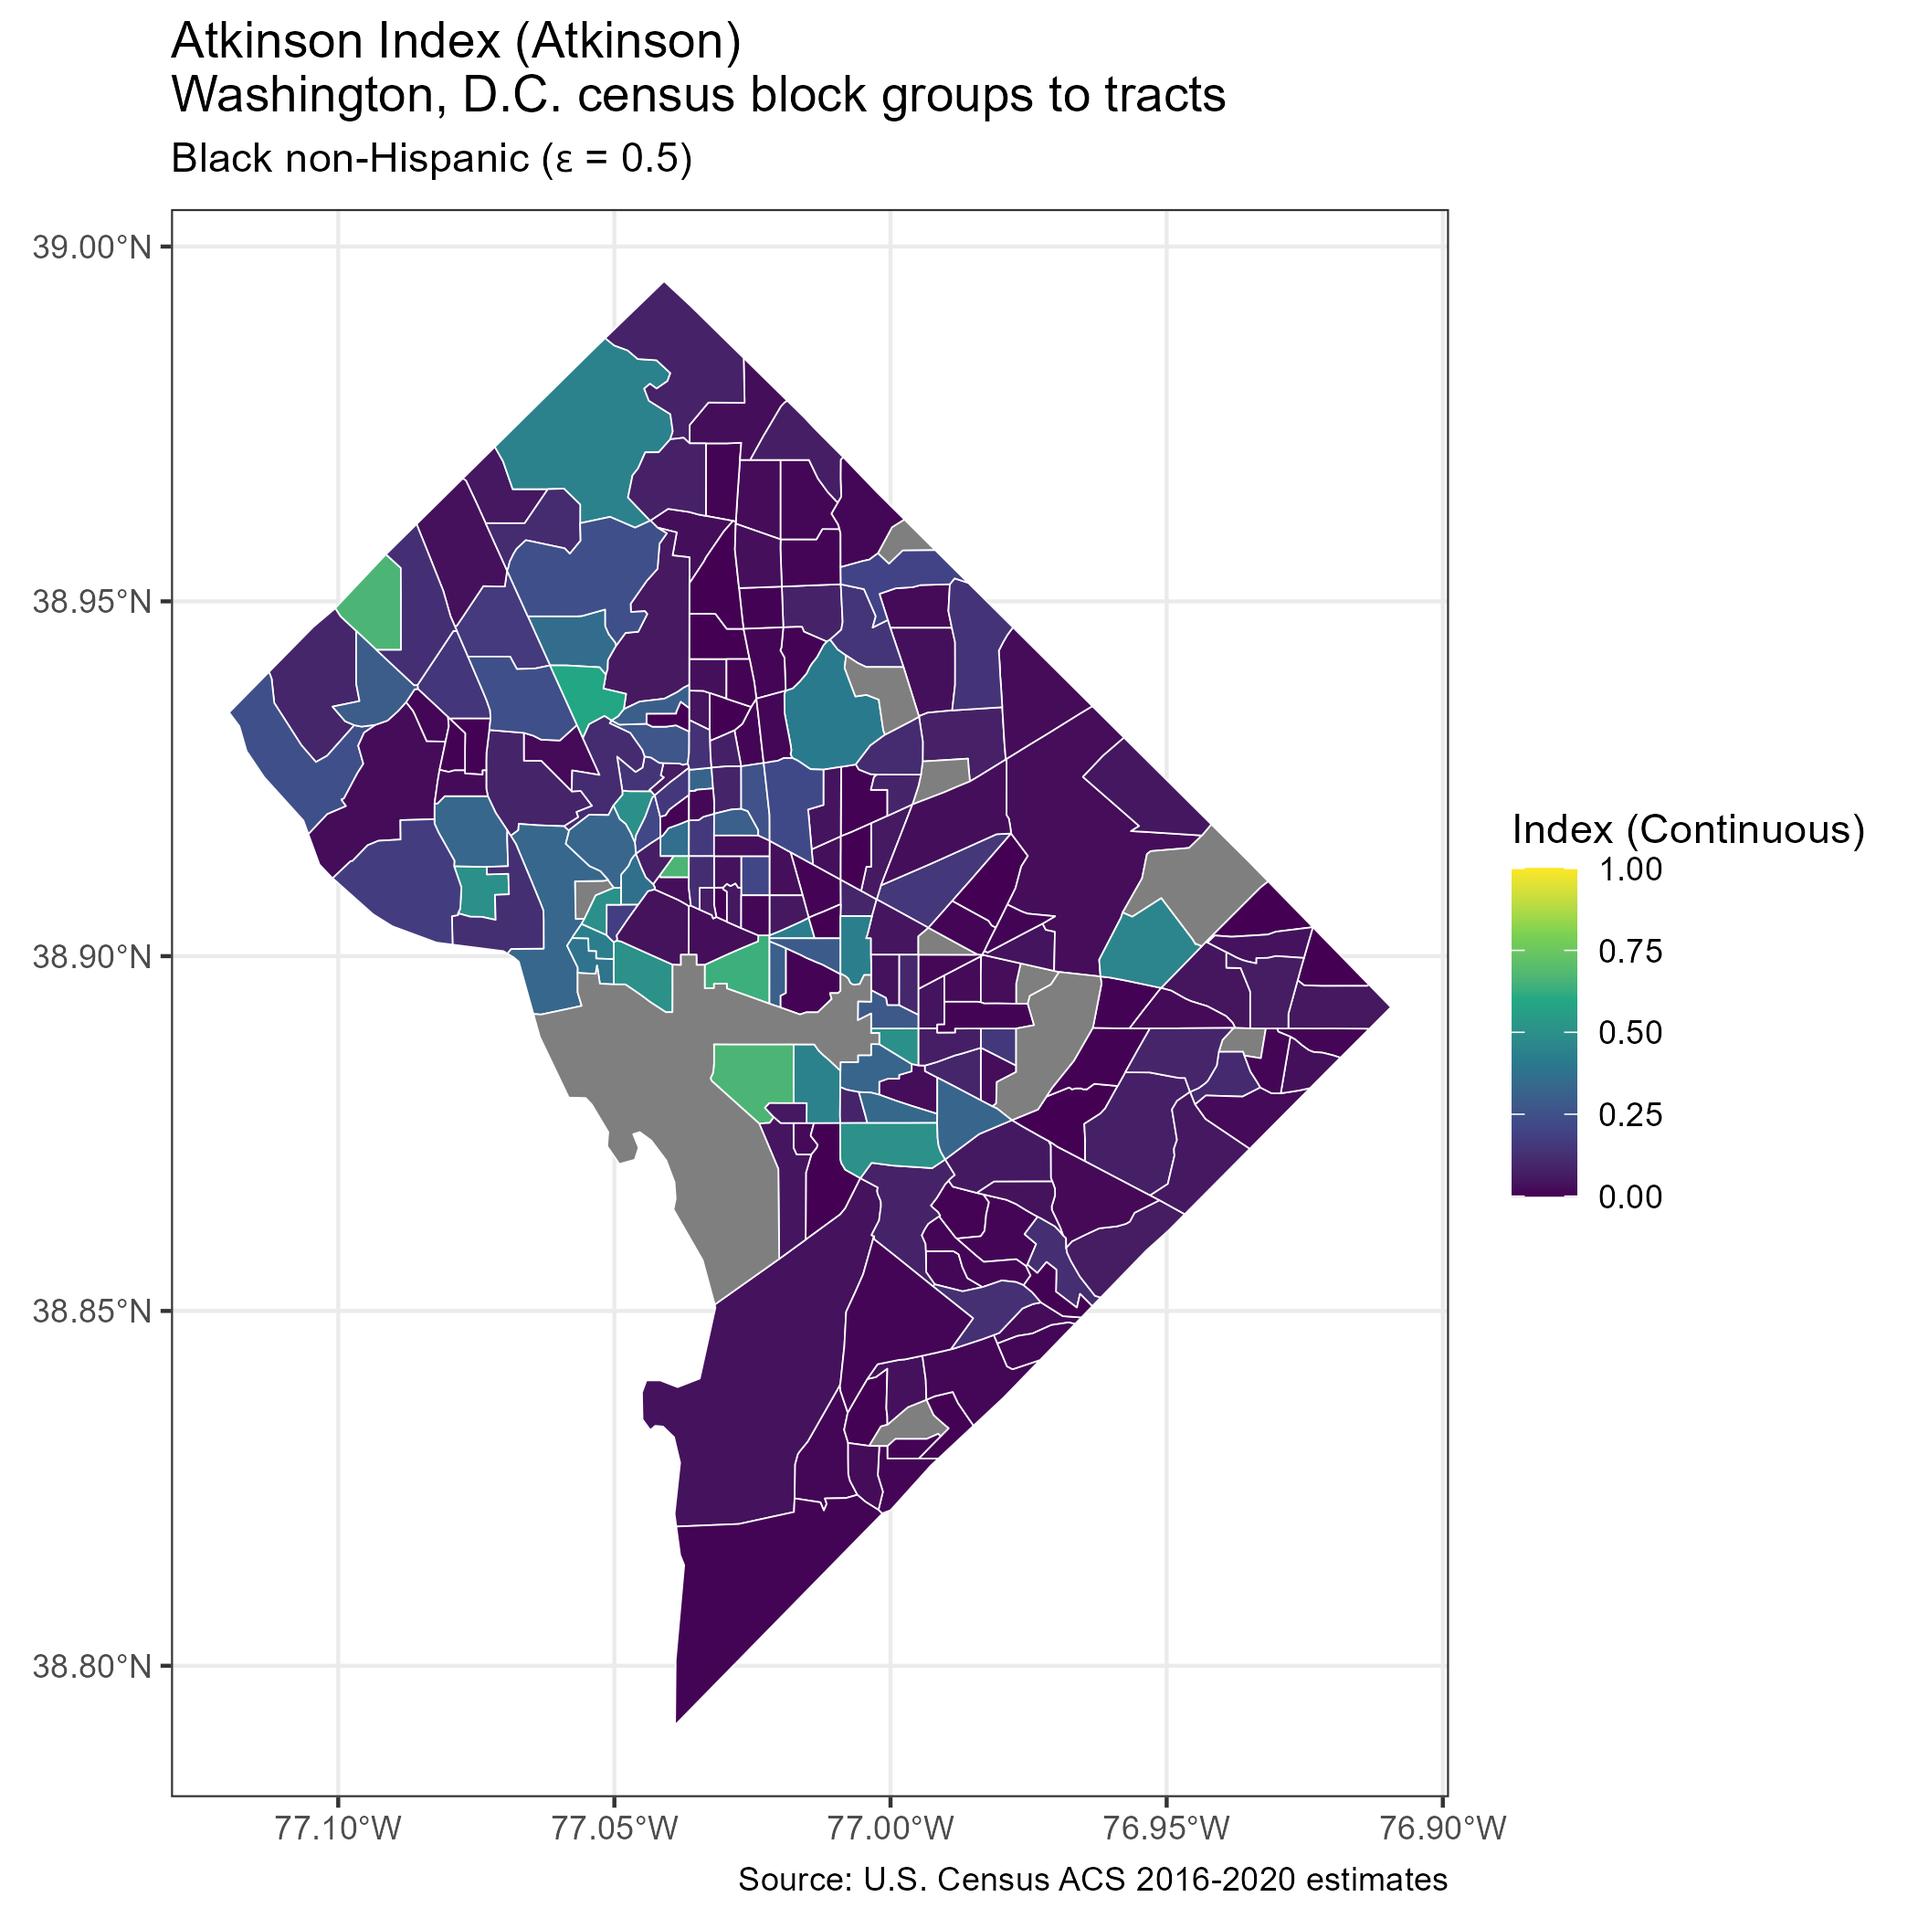
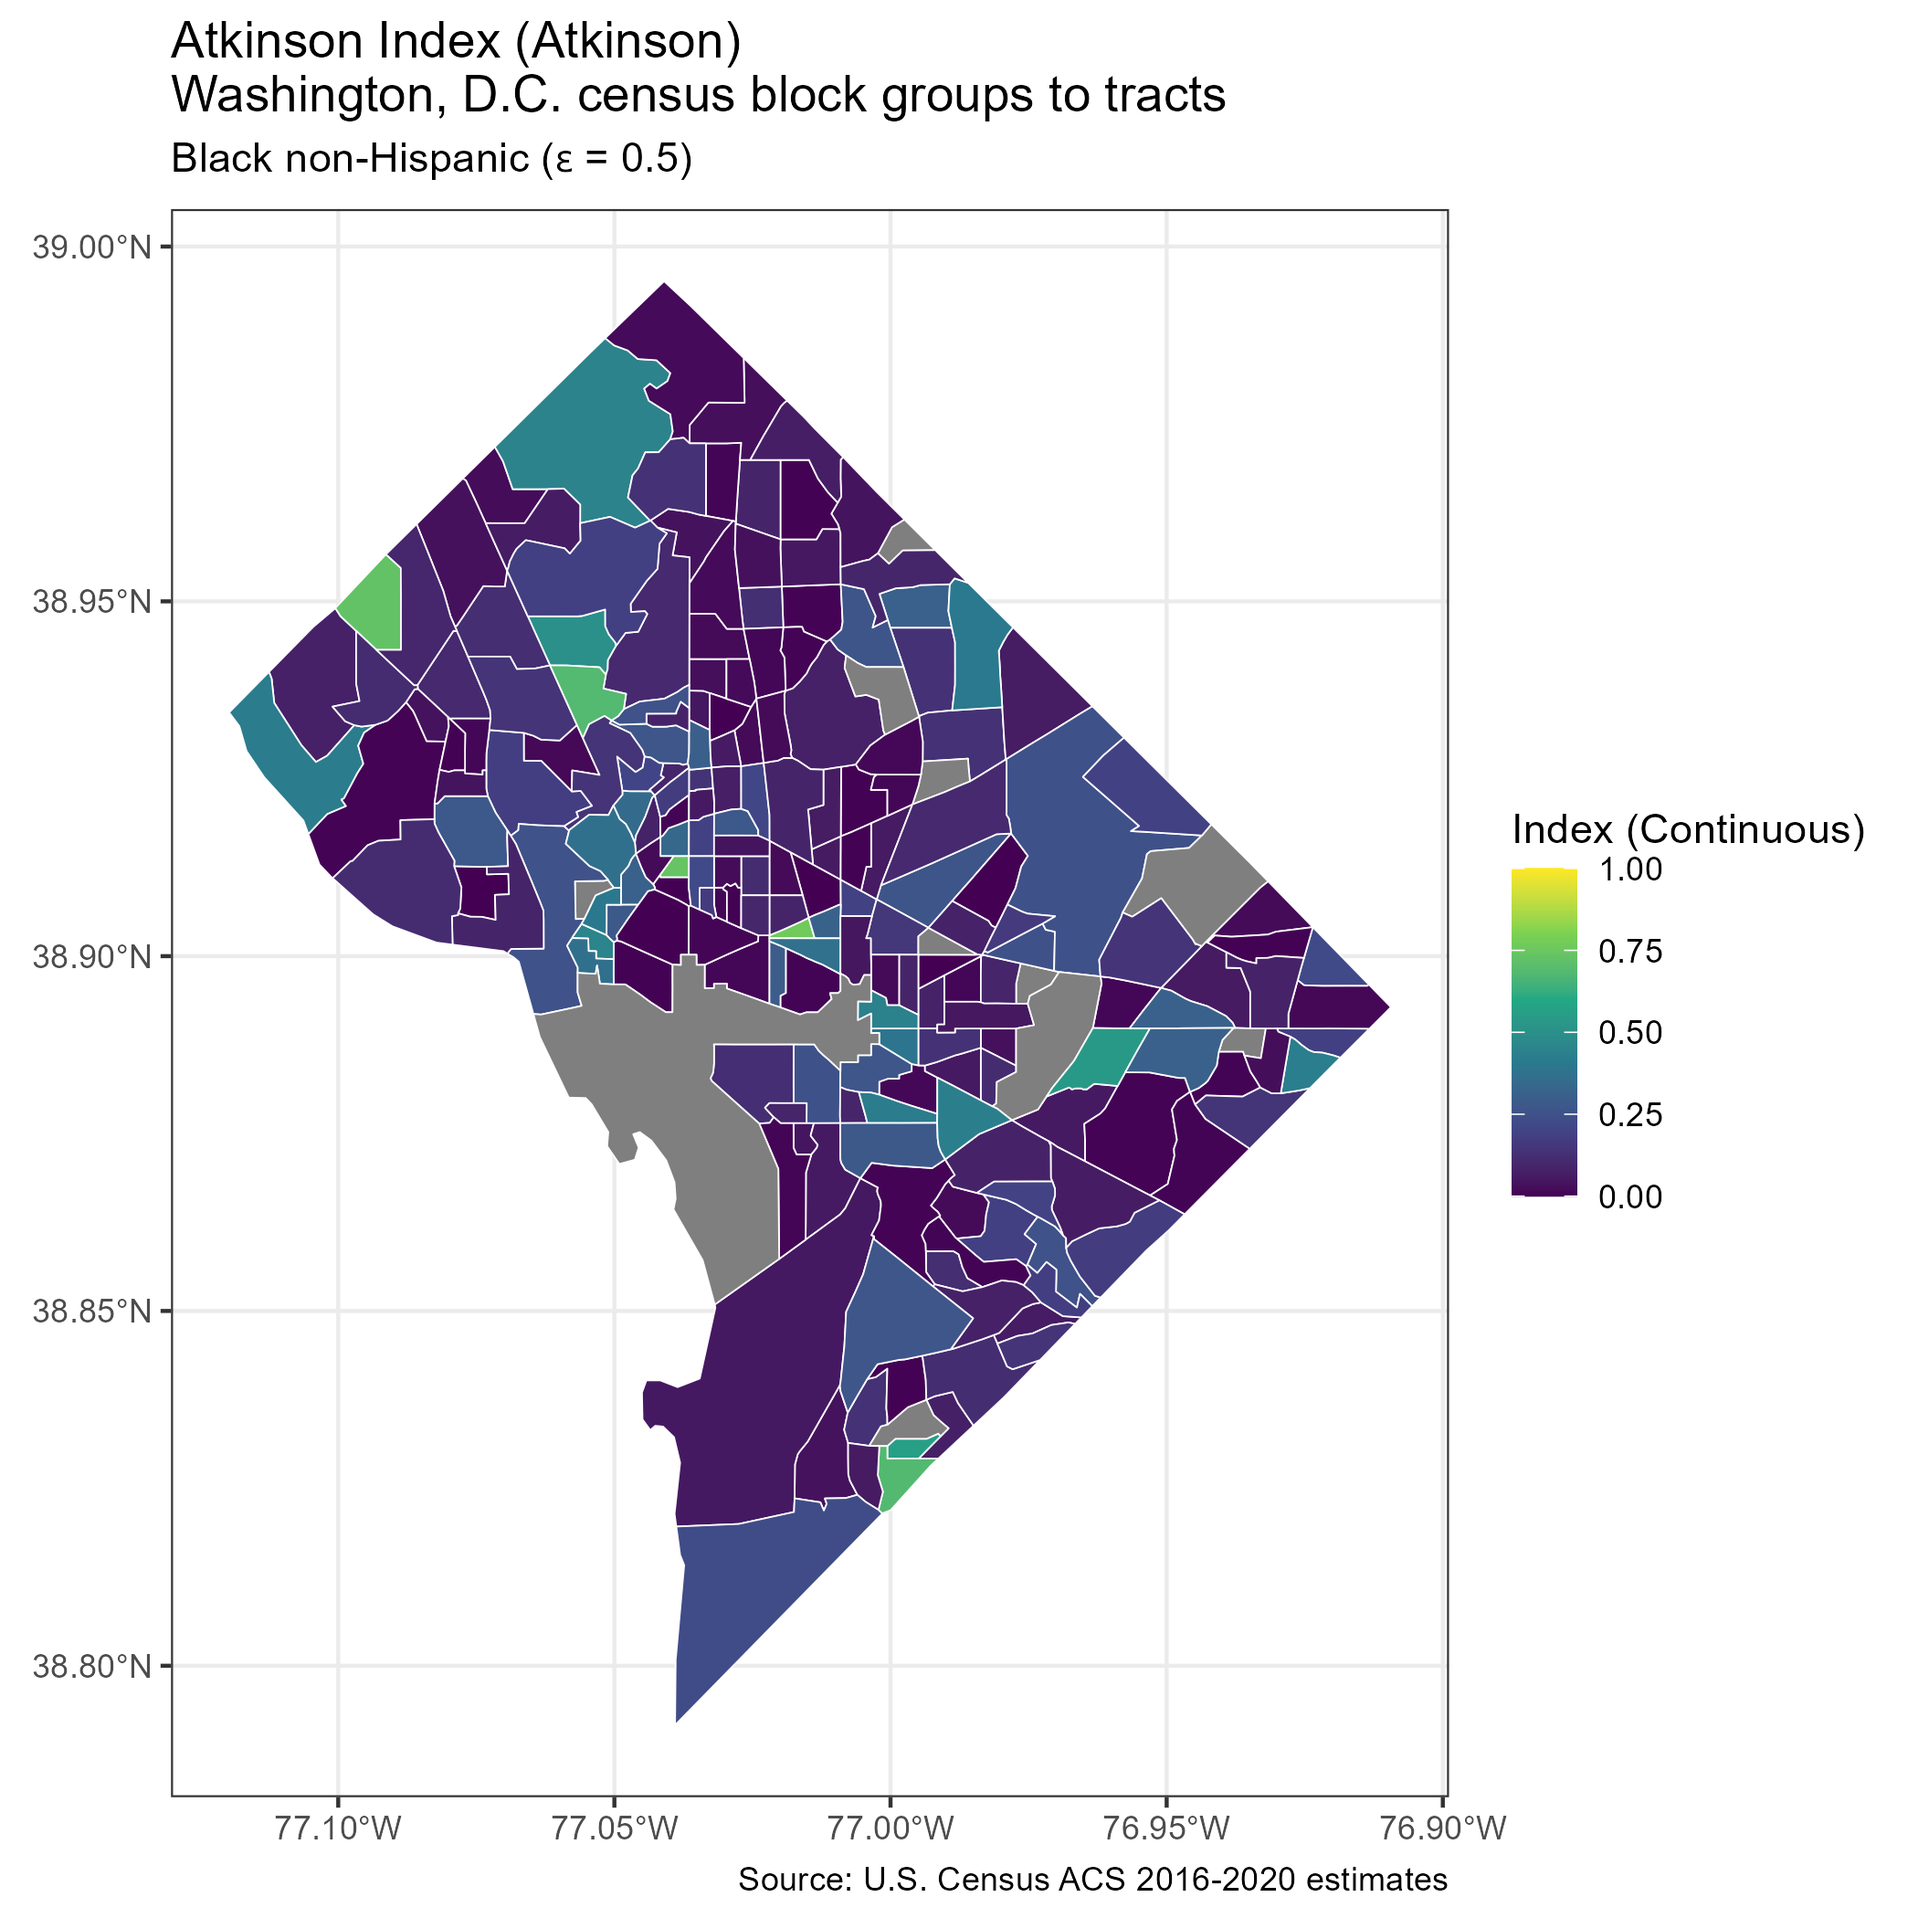
🔀 Merge `branch:dev_atkinson` into `branch:main` (#19)
* :sparkles: Added `holder` argument to `atkinson()`
* 'ndi' version 0.1.6.9003
* Added `holder` argument to `atkinson()` function to toggle the computation with or without the Hölder mean. The function can now compute *A* without the Hölder mean. The default is `holder = FALSE`.
* Add example for `holder` argument in `atkinson()` function in README

Changed region(s): [[0.2167, 0.2786, 0.7119, 0.8976], [0.1238, 0.3405, 0.2167, 0.4333]]

diff --git a/README.md b/README.md
@@ -12,7 +12,7 @@
 [![DOI](https://zenodo.org/badge/521439746.svg)](https://zenodo.org/badge/latestdoi/521439746)
 <!-- badges: end -->
 
-**Date repository last updated**: 2024-08-22
+**Date repository last updated**: 2024-08-23
 
 ### Overview
 
@@ -797,6 +797,54 @@ ggplot() +
 ![](man/figures/a.png)
 
 ```r
+# ----------------------------------------------------------------------------- #
+# Compute aspatial racial/ethnic Atkinson Index (Atkinson) with the Hölder mean #
+# ----------------------------------------------------------------------------- #
+
+# Atkinson Index based on Atkinson (1970)
+## Selected subgroup: Not Hispanic or Latino, Black or African American alone
+## Selected large geography: census tract
+## Selected small geography: census block group
+## Default epsilon (0.5 or over- and under-representation contribute equally)
+## Using the Hölder mean based on the `Atkinson()` function from 'DescTools' package
+A_2020_DC <- atkinson(
+  geo_large = 'tract',
+  geo_small = 'block group',
+  state = 'DC',
+  year = 2020,
+  subgroup = 'NHoLB',
+  holder = TRUE
+)
+
+# Obtain the 2020 census tracts from the 'tigris' package
+tract_2020_DC <- tracts(state = 'DC', year = 2020, cb = TRUE)
+
+# Join the AI (Atkinson) values to the census tract geometry
+A_2020_DC <- tract_2020_DC %>%
+  left_join(A_2020_DC$a, by = 'GEOID')
+
+ggplot() +
+  geom_sf(
+    data = A_2020_DC,
+    aes(fill = A),
+    color = 'white'
+  ) +
+  theme_bw() +
+  scale_fill_viridis_c(limits = c(0, 1)) +
+  labs(
+    fill = 'Index (Continuous)',
+    caption = 'Source: U.S. Census ACS 2016-2020 estimates'
+  ) +
+  ggtitle(
+    'Atkinson Index (Atkinson) with Hölder mean\n
+    Washington, D.C. census block groups to tracts',
+    subtitle = expression(paste('Black non-Hispanic (', epsilon, ' = 0.5)'))
+  )
+```
+
+![](man/figures/a_holder.png)
+
+```r
 # ------------------------------------------------------- #
 # Compute aspatial racial/ethnic Interaction Index (Bell) #
 # ------------------------------------------------------- #
@@ -889,7 +937,6 @@ ggplot() +
     Washington, D.C. census block groups to tracts',
     subtitle = 'Black non-Hispanic'
   )
-  ggsave('man/figures/v.png', width = 7, height = 7)
 ```
 
 ![](man/figures/v.png)
@@ -1138,7 +1185,7 @@ This package was originally developed while the author was a postdoctoral fellow
 
 ### Acknowledgments
 
-The [`messer()`](R/messer.R) function functionalizes the code found in [Hruska et al. (2022)](https://doi.org/10.1016/j.janxdis.2022.102529) available on an [OSF repository](https://doi.org/10.17605/OSF.IO/M2SAV), but with percent with income less than $30K added to the computation based on [Messer et al. (2006)](https://doi.org/10.1007/s11524-006-9094-x). The [`messer()`](R/messer.R) function also allows for the computation of *NDI* (Messer) for each year between 2010-2020 (when the U.S. census characteristics are available to date). There was no code companion to compute *NDI* (Powell-Wiley) included in [Andrews et al. (2020)](https://doi.org/10.1080/17445647.2020.1750066) or [Slotman et al. (2022)](https://doi.org/10.1016/j.dib.2022.108002) only a [description](https://www.gis.cancer.gov/research/NeighDeprvIndex_Methods.pdf), but the package author worked directly with the latter manuscript authors to replicate their [*SAS*](https://www.sas.com) code in [**R**](https://cran.r-project.org/) for the [`powell_wiley()`](R/powell_wiley.R) function. See the Accumulating Data to Optimally Predict Obesity Treatment [(ADOPT)](https://gis.cancer.gov/research/adopt.html) Core Measures Project for more details. Please note: the *NDI* (Powell-Wiley) values will not exactly match (but will highly correlate with) those found in [Andrews et al. (2020)](https://doi.org/10.1080/17445647.2020.1750066) and [Slotman et al. (2022)](https://doi.org/10.1016/j.dib.2022.108002) because the two studies used a different statistical platform (i.e., [*SPSS*](https://www.ibm.com/spss) and [*SAS*](https://www.sas.com), respectively) that intrinsically calculate the principal component analysis differently from [**R**](https://cran.r-project.org/). The internal function to calculate the Atkinson Index is based on the `atkinson()` function in the [*DescTools*](https://cran.r-project.org/package=DescTools) package.
+The [`messer()`](R/messer.R) function functionalizes the code found in [Hruska et al. (2022)](https://doi.org/10.1016/j.janxdis.2022.102529) available on an [OSF repository](https://doi.org/10.17605/OSF.IO/M2SAV), but with percent with income less than $30K added to the computation based on [Messer et al. (2006)](https://doi.org/10.1007/s11524-006-9094-x). The [`messer()`](R/messer.R) function also allows for the computation of *NDI* (Messer) for each year between 2010-2020 (when the U.S. census characteristics are available to date). There was no code companion to compute *NDI* (Powell-Wiley) included in [Andrews et al. (2020)](https://doi.org/10.1080/17445647.2020.1750066) or [Slotman et al. (2022)](https://doi.org/10.1016/j.dib.2022.108002) only a [description](https://www.gis.cancer.gov/research/NeighDeprvIndex_Methods.pdf), but the package author worked directly with the latter manuscript authors to replicate their [*SAS*](https://www.sas.com) code in [**R**](https://cran.r-project.org/) for the [`powell_wiley()`](R/powell_wiley.R) function. See the Accumulating Data to Optimally Predict Obesity Treatment [(ADOPT)](https://gis.cancer.gov/research/adopt.html) Core Measures Project for more details. Please note: the *NDI* (Powell-Wiley) values will not exactly match (but will highly correlate with) those found in [Andrews et al. (2020)](https://doi.org/10.1080/17445647.2020.1750066) and [Slotman et al. (2022)](https://doi.org/10.1016/j.dib.2022.108002) because the two studies used a different statistical platform (i.e., [*SPSS*](https://www.ibm.com/spss) and [*SAS*](https://www.sas.com), respectively) that intrinsically calculate the principal component analysis differently from [**R**](https://cran.r-project.org/). The internal function to calculate the Atkinson Index with the Hölder mean is based on the `Atkinson()` function in the [*DescTools*](https://cran.r-project.org/package=DescTools) package.
 
 When citing this package for publication, please follow:
 

diff --git a/cran-comments.md b/cran-comments.md
@@ -5,7 +5,7 @@
   * Added `white_blau()` function to compute an index of spatial proximity (*SP*) based on [White (1986)](https://doi.org/10.2307/3644339) and Blau (1977; ISBN-13:978-0-029-03660-0)
   * Added `lieberson()` function to compute he aspatial racial/ethnic Isolation Index (_xPx\*_) based on [White (1986)](https://doi.org/10.2307/3644339) and Blau (1977; ISBN-13:978-0-029-03660-0)
   * Added `geo_large = 'cbsa'` for Core Based Statistical Areas, `geo_large = 'csa'` for Combined Statistical Areas, and `geo_large = 'metro'` for Metropolitan Divisions as the larger geographical unit in `atkinson()`, `bell()`, `bemanian_beyer()`, `duncan()`, `hoover()`, `sudano()`, and `white()`, `white_blau()` functions.
-  * Thank you for the feature suggestions, [Symielle Gaston](https://orcid.org/0000-0001-9495-1592)
+  * Added `holder` argument to `atkinson()` function to toggle the computation with or without the Hölder mean. The function can now compute *A* without the Hölder mean. The default is `holder = TRUE`.
   * `bell()` function computes the Interaction Index (Bell) not the Isolation Index as previously documented. Updated documentation throughout
   * Fixed bug in `bell()`, `bemanian_beyer()`, `duncan()`, `sudano()`, and `white()` functions when a smaller geography contains n=0 total population, will assign a value of zero (0) in the internal calculation instead of NA
   * Renamed *AI* as *A*, *DI* as *D*, *Gini* as *G*, and *II* as _xPy\*_ to align with the definitions from [Massey & Denton (1988)](https://doi.org/10.1093/sf/67.2.281). The output for `atkinson()` now produces `a` instead of `ai`. The output for `duncan()` now produces `d` instead of `ai`. The output for `gini()` now produces `g` instead of `gini`. The output for `bell()` now produces `xPy_star` instead of `II`. The internal functions `ai_fun()`, `di_fun()` and `ii_fun()` were renamed `a_fun()`, `d_fun()` and `xpy_star_fun()`, respectively.
@@ -13,7 +13,8 @@
   * 'package.R' deprecated. Replaced with 'ndi-package.R'
   * Re-formatted code and documentation throughout for consistent readability
   * Updated documentation about value range of *V* (White) from `{0 to 1}` to `{-Inf to Inf}`
-  * Add examples for `hoover()` and `white_blau()` in vignette and README
+  * Add examples for `hoover()` and `white_blau()` functions in vignette and README
+  * Add example for `holder` argument in `atkinson()` function in README
   * Reformatted functions for consistent internal structure
   * Updated examples in vignette to showcase a larger variety of U.S. states
   * Updated examples in functions to better describe the metrics

diff --git a/NEWS.md b/NEWS.md
@@ -1,6 +1,6 @@
 # ndi (development version)
 
-## ndi v0.1.6.9002
+## ndi v0.1.6.9003
 
 ### New Features
 * Added `hoover()` function to compute the aspatial racial/ethnic Delta (*DEL*) based on [Hoover (1941)](https://doi.org/10.1017/S0022050700052980) and Duncan et al. (1961; LC:60007089)
@@ -8,6 +8,7 @@
 * Added `lieberson()` function to compute he aspatial racial/ethnic Isolation Index (_xPx\*_) based on Lieberson (1981; ISBN-13:978-1-032-53884-6) and and [Bell (1954)](https://doi.org/10.2307/2574118)
 * Added `geo_large = 'cbsa'` for Core Based Statistical Areas, `geo_large = 'csa'` for Combined Statistical Areas, and `geo_large = 'metro'` for Metropolitan Divisions as the larger geographical unit in `atkinson()`, `bell()`, `bemanian_beyer()`, `duncan()`, `hoover()`, `lieberson()`, `sudano()`, and `white()`, `white_blau()` functions.
 * Thank you for the feature suggestions, [Symielle Gaston](https://orcid.org/0000-0001-9495-1592)
+* Added `holder` argument to `atkinson()` function to toggle the computation with or without the Hölder mean. The function can now compute *A* without the Hölder mean. The default is `holder = FALSE`.
 
 ### Updates
 * `bell()` function computes the Interaction Index (Bell) not the Isolation Index as previously documented. Updated documentation throughout
@@ -17,7 +18,8 @@
 * 'package.R' deprecated. Replaced with 'ndi-package.R'
 * Re-formatted code and documentation throughout for consistent readability
 * Updated documentation about value range of *V* (White) from `{0 to 1}` to `{-Inf to Inf}`
-* Add examples for `hoover()` and `white_blau()` in vignette and README
+* Add examples for `hoover()` and `white_blau()` functions in vignette and README
+* Add example for `holder` argument in `atkinson()` function in README
 * Reformatted functions for consistent internal structure
 * Updated examples in vignette to showcase a larger variety of U.S. states
 * Updated examples in functions to better describe the metrics
